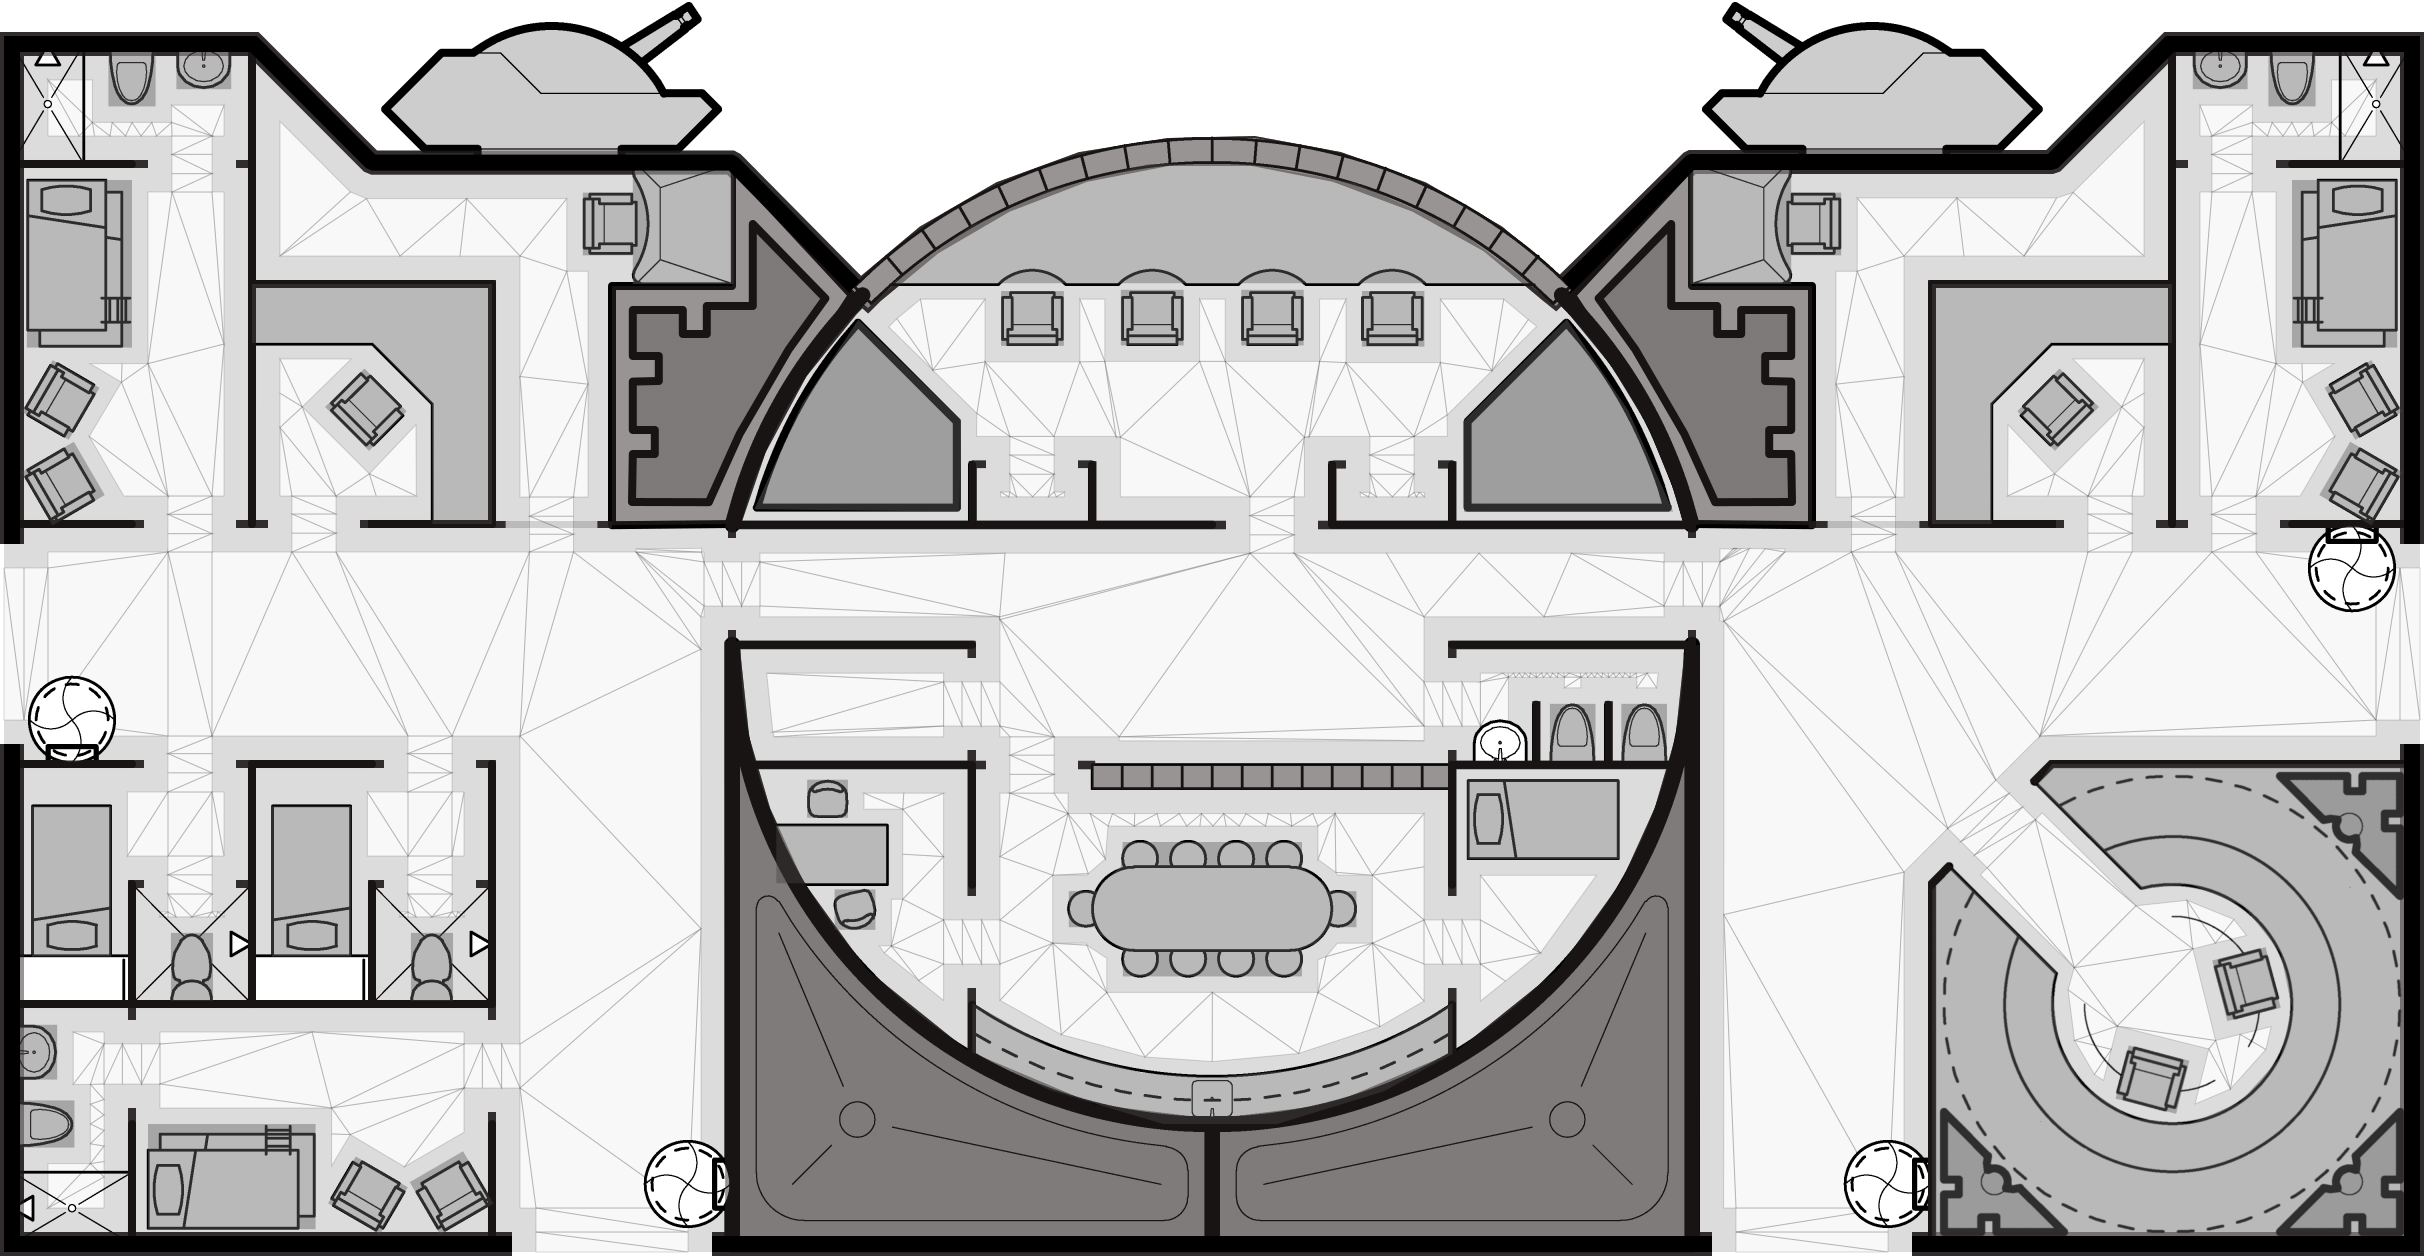
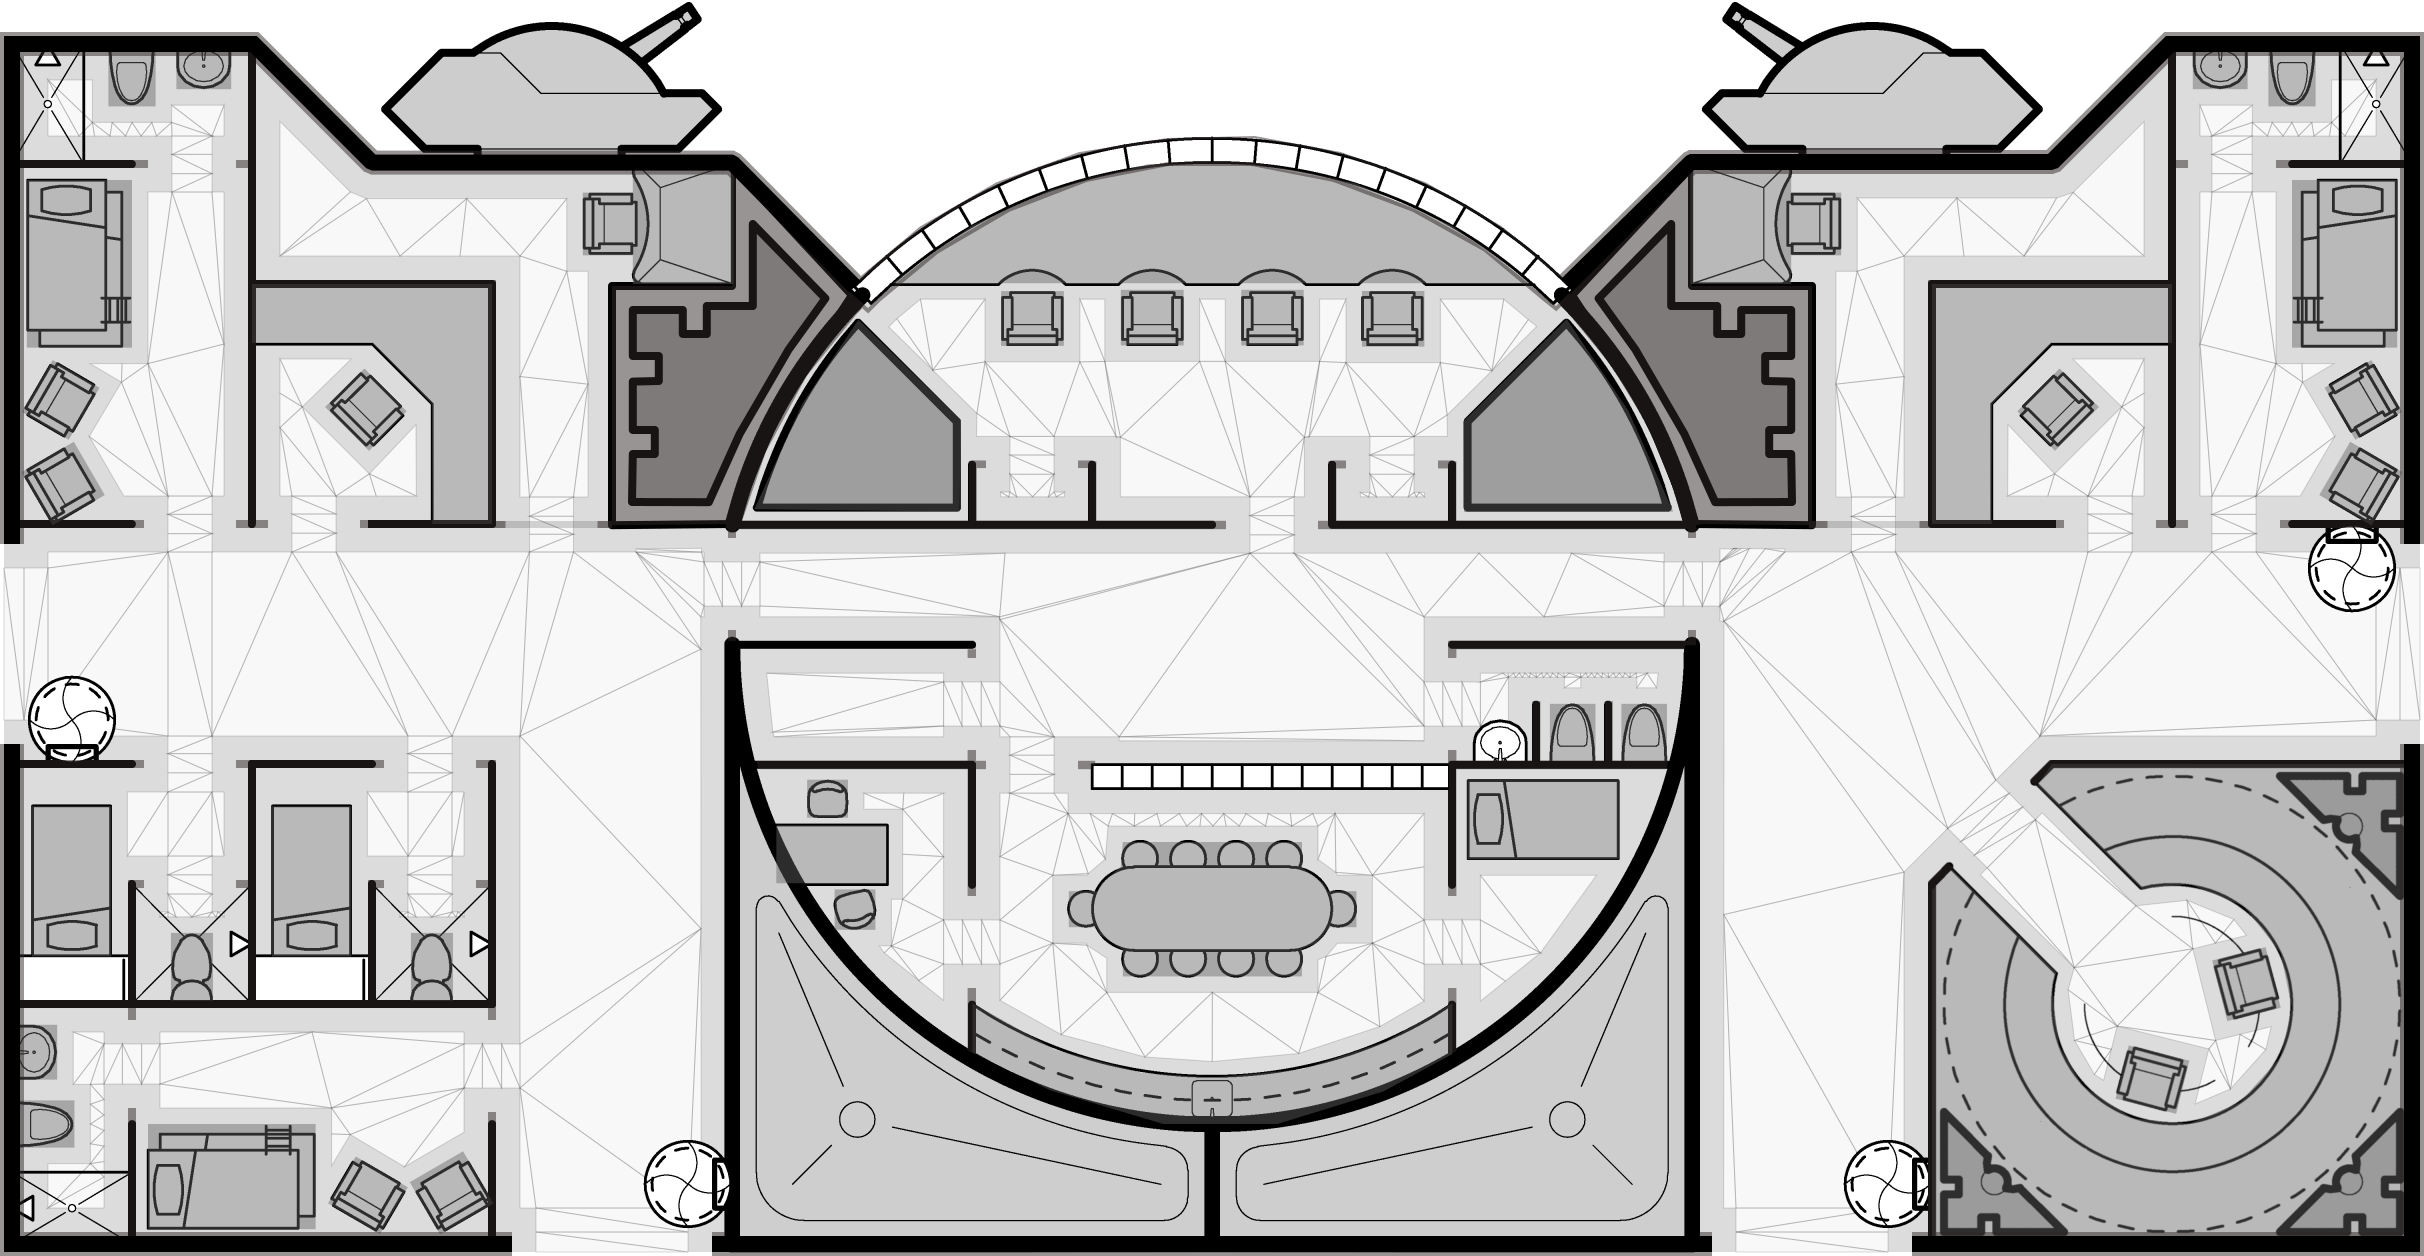
feat: don't darken no-fill walls

diff --git a/projects/geomorph/render-geomorph.js b/projects/geomorph/render-geomorph.js
@@ -55,16 +55,7 @@ export async function renderGeomorph(
     drawTriangulation(ctxt, layout.navZone)
   }
 
-  /**
-   * Fill walls
-   * - without this some walls look worse, particularly when inverted
-   * - do not fill windows, or walls tagged with no-fill
-   * - currently dark grey for debug?
-   */
   const { singles, obstacles, walls } = layout.groups;
-  const wallsToFill = Poly.cutOut(singlesToPolys(singles, 'window', ['wall', 'no-fill']), walls);
-  ctxt.fillStyle = 'rgba(50, 50, 50, 1)';
-  fillPolygon(ctxt, wallsToFill);
 
   ctxt.lineJoin = 'round';
   hullSym.singles.forEach(({ poly, tags }) => {
@@ -110,14 +101,19 @@ export async function renderGeomorph(
   //#region overlay
   ctxt.fillStyle = obsColor;
   obsBounds && fillPolygon(ctxt, obstacles);
+
+  /**
+   * Fill walls
+   * - necessary to show our custom walls e.g. near cut doors
+   * - do not fill windows
+   * - do not fill walls tagged with no-fill
+   */
+  const wallsToFill = Poly.cutOut(singlesToPolys(singles, 'window', ['wall', 'no-fill']), walls);
   ctxt.fillStyle = wallColor;
-  wallBounds && fillPolygon(ctxt, walls);
+  wallBounds && fillPolygon(ctxt, wallsToFill);
+
   ctxt.fillStyle = 'rgba(0, 0, 0, 1)';
   fillPolygon(ctxt, layout.hullTop);
-  // // Draw walls without drawing them over windows
-  // const wallsSansWindows = Poly.cutOut(singlesToPolys(singles, 'window'), walls);
-  // ctxt.fillStyle = 'rgba(0, 0, 0, 1)';
-  // fillPolygon(ctxt, wallsSansWindows);
 
   if (doors) {
     const doors = singlesToPolys(singles, 'door');

diff --git a/projects/graph/gm-graph.js b/projects/graph/gm-graph.js
@@ -336,6 +336,7 @@ export class gmGraphClass extends BaseGraph {
 
     const adjOpenDoorIds = gm.roomGraph.getAdjacentDoors(roomNode)
       .map(x => x.doorId).filter(id => openDoorIds.includes(id));
+
     const areas = adjOpenDoorIds
       .flatMap(doorId => this.getOpenDoorArea(gmId, doorId) || []);
 
@@ -367,15 +368,16 @@ export class gmGraphClass extends BaseGraph {
     });
     
     const adjWindowIds = gm.roomGraph.getAdjacentWindows(roomNode)
-    .filter(x => {
-      const connector = gm.windows[x.windowIndex];
-        // Frosted windows opaque
-        if (connector.tags.includes('frosted')) return false;
-        // One-way mirror
-        if (connector.tags.includes('one-way') && connector.roomIds[0] !== rootRoomId) return false;
-        return true;
+      .filter(x => {
+        const connector = gm.windows[x.windowIndex];
+          // Frosted windows opaque
+          if (connector.tags.includes('frosted')) return false;
+          // One-way mirror
+          if (connector.tags.includes('one-way') && connector.roomIds[0] !== rootRoomId) return false;
+          return true;
       })
       .map(x => x.windowIndex);
+
     const windowLights = adjWindowIds.map(windowIndex => ({
       gmIndex: gmId,
       poly: geom.lightPolygon({

diff --git a/projects/geomorph/geomorph.model.js b/projects/geomorph/geomorph.model.js
@@ -33,6 +33,8 @@ export function singlesToPolys(singles, ...tagOrTags) {
  */
 export function filterSingles(singles, ...tagOrTags) {
   return singles.filter(x => tagOrTags.some(spec =>
-    Array.isArray(spec) ? spec.every(tag => x.tags.includes(tag)) : x.tags.includes(spec))
+    Array.isArray(spec)
+      ? spec.every(tag => x.tags.includes(tag))
+      : x.tags.includes(spec))
   );
 }

diff --git a/projects/service/geomorph.js b/projects/service/geomorph.js
@@ -303,7 +303,6 @@ function singleToConnectorRect(single, rooms) {
   };
 }
 
-
 /**
  * @param {Geomorph.ConnectorRectJson} x
  * @returns {Geomorph.ParsedConnectorRect}

diff --git a/docs/plan.md b/docs/plan.md
@@ -17,20 +17,14 @@ __Aim towards website release__.
     - Copy across and get working
   - Continue migration
 
+- 🚧 clean and simplify render-npc
+- 🚧 larger character?
 
-- ✅ `npc {npcKey} {act}` -> `npc {act} [{npcKey}]`
-  - e.g. `npc get andros`
-  - e.g. `npc set-player` (set no player)
-
-- larger character?
-- don't darken "holes" in geomorph png
-
-- clean and simplify render-npc
-
-- can only open door when player close
+- can only open door when player is close
   - move playerNpcKey to NPCs
   - only applies when there is a player
     - `npc set-player andros`
+
 - can turn andros when idle
 - can toggle NPC speech bubbles
 - can pause/resume NPC
@@ -177,6 +171,11 @@ __Aim towards website release__.
     - only happens when Tabs maximised
     - https://bugs.webkit.org/show_bug.cgi?id=160953
 
+- ✅ don't darken "holes" in geomorph png
+  - ignore roomWithDoors holes for current room light
+- ✅ `npc {npcKey} {act}` -> `npc {act} [{npcKey}]`
+  - e.g. `npc get andros`
+  - e.g. `npc set-player` (set no player)
 - ✅ Customizable light position via meta points
 - ✅ Improve track:
   - **SMOOTHNESS FIRST** approach (mobile, in particular)
